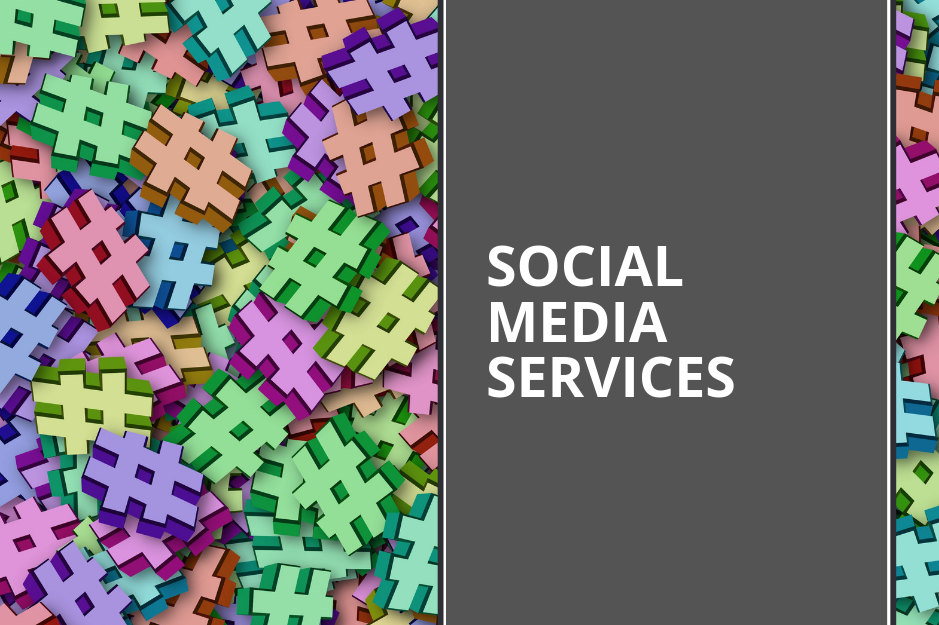
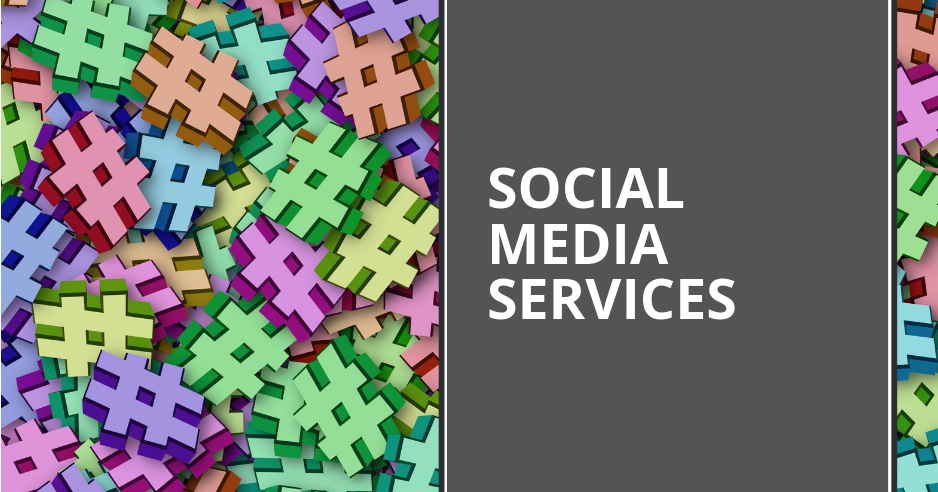
Adjest the image size in the social page

diff --git a/app/assets/stylesheets/application.css.scss b/app/assets/stylesheets/application.css.scss
@@ -432,10 +432,13 @@ select.form-control:not([size]):not([multiple]) {
   border-radius: 25px;
   width: 79%;
 }
+.border-img-2 {
+  border-radius: 10px;
+}
 /* page links */
 .section {
   padding: 100px 20px;
-  width:90%;
+  width: 88%;
   margin-left: auto;
   margin-right: auto;
 }
